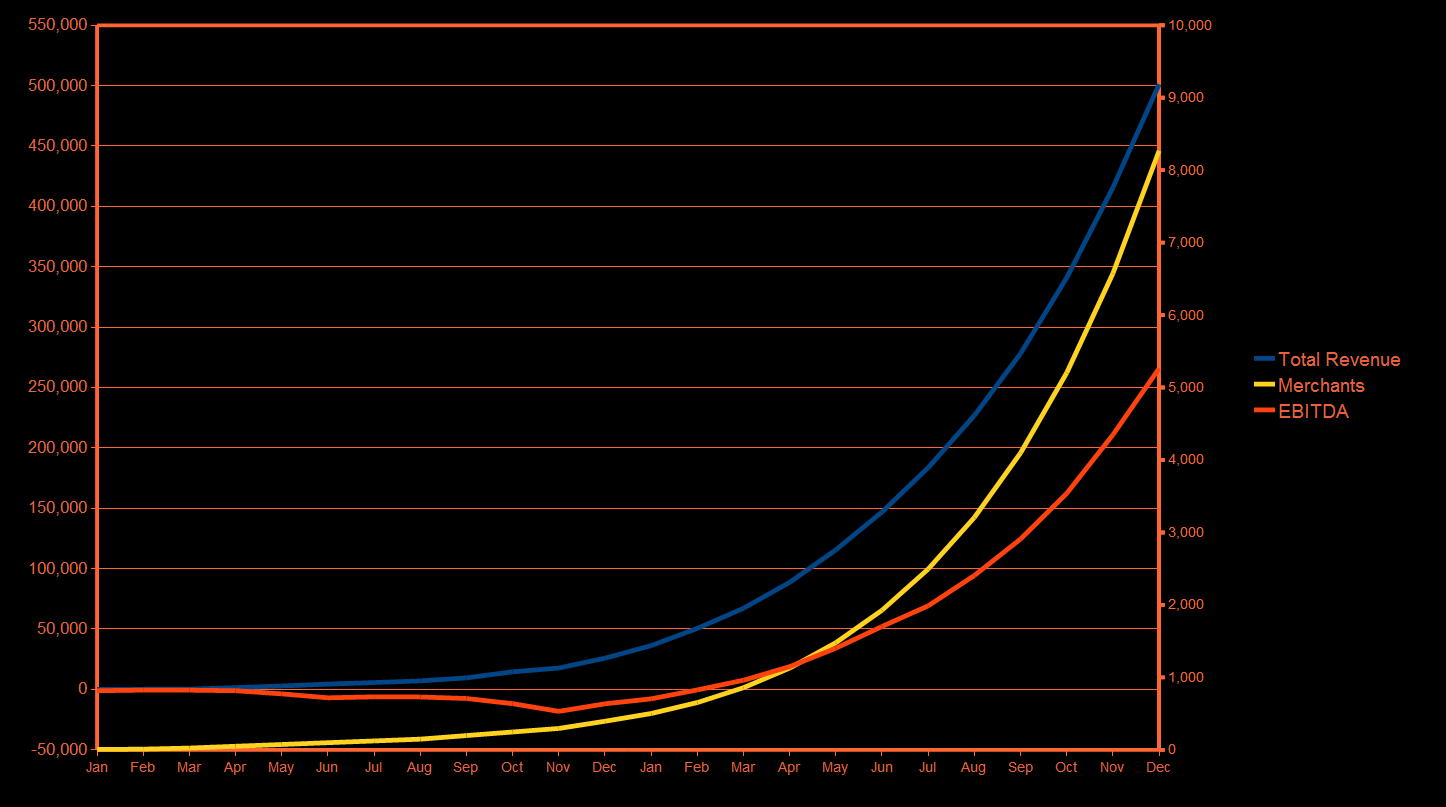
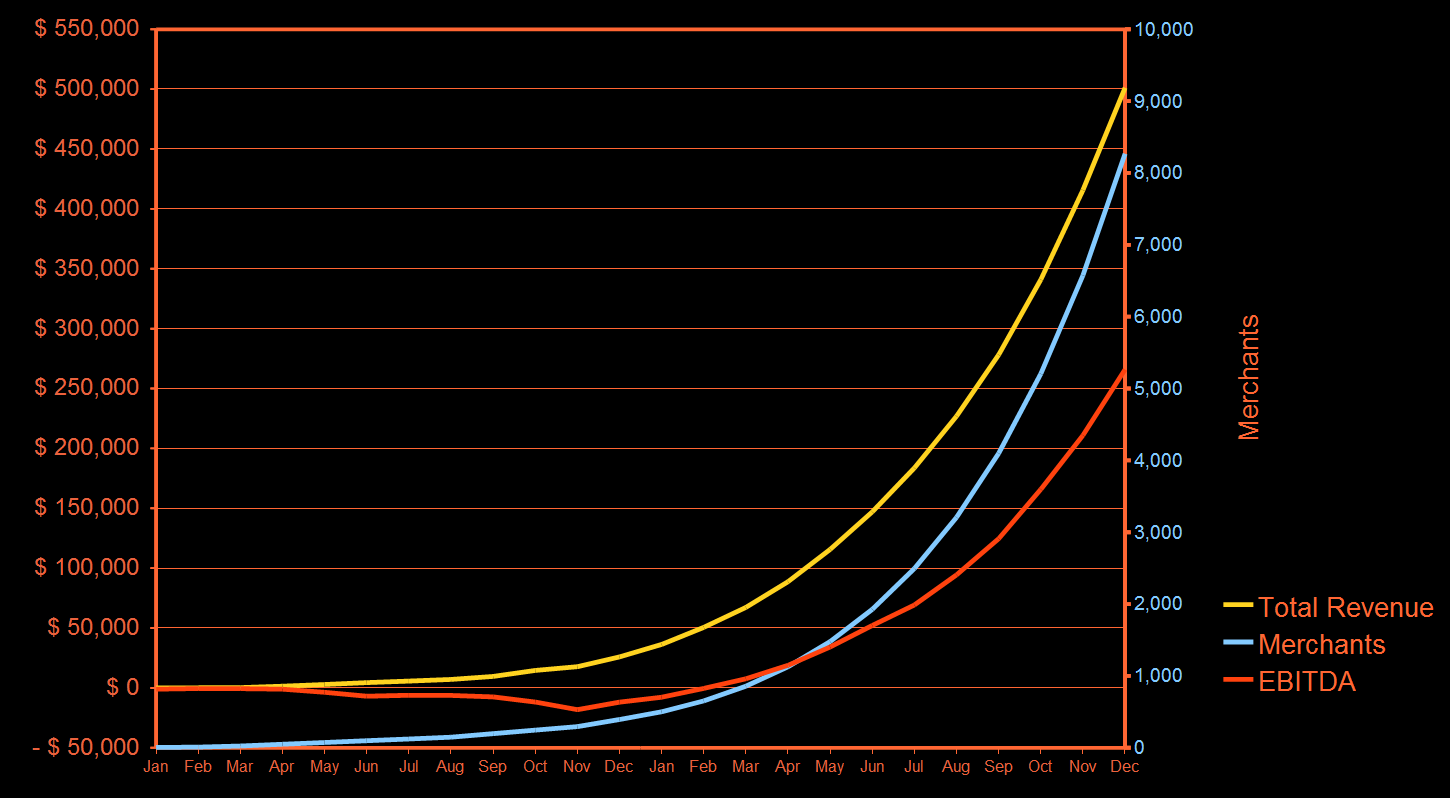
fixed the graphs so that dollars are on the right side, while merchants are always on the left.

Changed region(s): [[0.0, 0.0, 0.9959, 0.9624], [0.5602, 0.782, 0.5913, 0.812]]

diff --git a/index.html b/index.html
@@ -115,23 +115,31 @@
 	</div>
 	
 	<div class="step" data-x="-1000" data-y="2000" data-z='1500'>
-    	<!-- <div class='slide_title heading'><h1>All Together Now...</h1></div> -->
 		<div class='slide_body'>
+			<div class='slide_title heading'>
+				<h1>Financials</h1>
+			</div>
 			<img src="./images/financialschart.png" width="100%"/>
 		</div>
     </div>
+    
+    <div class="step" data-x="-1000" data-y="2000" data-z='1500'>
+		<div class='slide_body'>
+			<div class='slide_title heading'>
+				<h1>Financials</h1>
+			</div>
+			<img src="./images/financialschart.png" width="100%"/>
+		</div>
+    </div>
+    
     
     <div class="step" data-x="-1000" data-y="2500" data-z='1500'>
     	<!-- <div class='slide_title heading'><h1>All Together Now...</h1></div> -->
 		<div class='slide_body'>
 			<div class='slide_title heading'>
-				<h1>With $150,000 investment...</h1>
+				<h1>The Model - Lifetime Merchant Value</h1>
 			</div>
-			<ul>
-				<li>Hire sales team</li>
-				<li>Increase marketing and SEO spend</li>
-				<li>Cashflow breakeven in mid 2013</li>
-			</ul>
+			<img src="./images/merchantvalue.png" width="100%"/>
 		</div>
     </div>
 	
